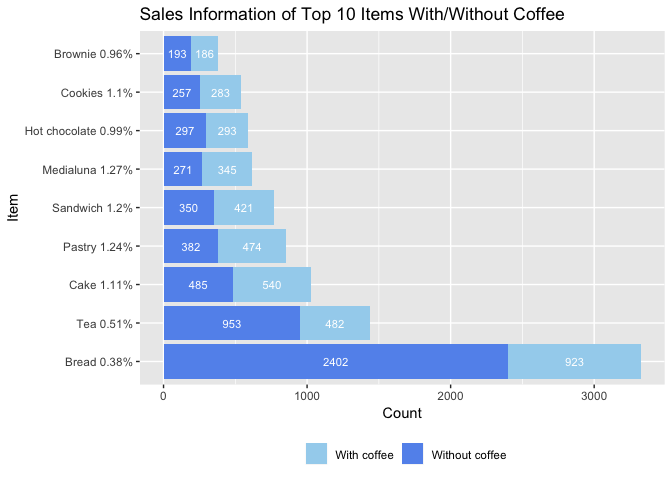
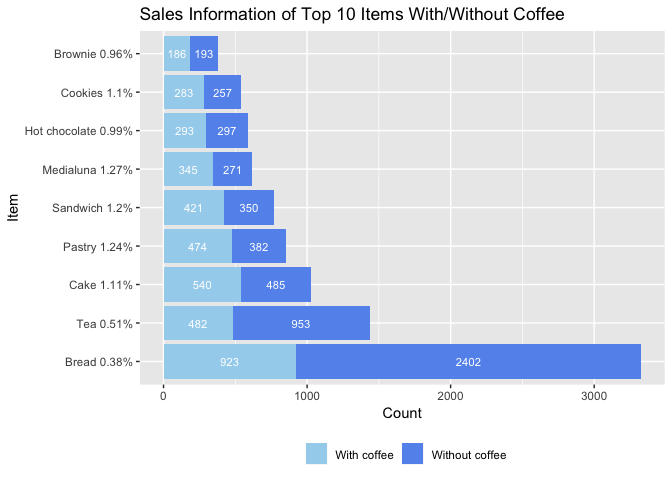
1

diff --git a/README.md b/README.md
@@ -1,19 +1,18 @@
+
+-   [Bakery Transaction Analysis](#bakery-transaction-analysis)
+    -   [Prerequisites](#prerequisites)
+    -   [Explore Data](#explore-data)
+    -   [Clean Data](#clean-data)
+    -   [Exploratory Data Analysis](#exploratory-data-analysis)
+    -   [Item Combination](#item-combination)
+    -   [Find the best item combinations with coffee](#find-the-best-item-combinations-with-coffee)
+    -   [Item Association Rules](#item-association-rules)
+    -   [Acknowledgments](#acknowledgments)
+
 Bakery Transaction Analysis
 ===========================
 
 This dataset contains the transaction records of a bakery shop. We tried to find the best combination of items that generally were bought together.
-
-
-Table of Contents
-------------
--   [Prerequisites](#prerequisites)
--   [Explore Data](#explore-data)
--   [Clean Data](#clean-data)
--   [Exploratory Data Analysis](#exploratory-data-analysis)
--   [Item Combination](#item-combination)
--   [Find the best item combinations with coffee](#find-the-best-item-combinations-with-coffee)
--   [Item Association Rules](#item-association-rules)
-
 
 ### Prerequisites
 
@@ -42,7 +41,7 @@ describe(data)
 head(data)
 
 # Correct date and time column types
-data = data %>%
+data = data %>% 
   mutate(
     Date = as.Date(Date),  
     Time = as.ITime(Time)  
@@ -52,7 +51,7 @@ str(data)
 # find how many unique items that we have
 data_item <- data %>%
   group_by(Item) %>%
-  summarise(Count = n())
+  summarise(Count = n()) 
 
 lengths(data_item)[2]
 ```
@@ -72,7 +71,7 @@ found<-c()
 # Found word types is 1 so only one of thing in my list founded in our data ("NONE")    
 found_words = word_list[found]
 
-# how many of them are "NONE"
+# how many of them are "NONE" 
 nrow(data[which(data$Item == "NONE"),])
 
 # Data include 786 missing values so let's drop them
@@ -96,13 +95,13 @@ We start with time variables.
 ### How many items were made across the year
 
 ``` r
-data_clean %>% group_by(Date, Item) %>% summarise(Count=n()) %>%
+data_clean %>% group_by(Date, Item) %>% summarise(Count=n()) %>% 
   mutate(Year = year(Date)) %>%
   ggplot(aes(x=Date, y=Count, colour=factor(Year))) +
   geom_line() +
   theme(legend.position = "bottom") +
   scale_color_manual(values=c("coral", "cornflowerblue")) +
-  labs(y="Transactions", title="Total Transactions by Date", colour="Year")
+  labs(y="Transactions", title="Total Transactions by Date", colour="Year") 
 ```
 
 ![](plots/year-1.png)
@@ -112,9 +111,9 @@ data_clean %>% group_by(Date, Item) %>% summarise(Count=n()) %>%
 ### Transcations by Month
 
 ``` r
-data_clean %>%
+data_clean %>% 
   mutate(Month = as.factor(month(Date))) %>%
-  group_by(Month, Transaction) %>%
+  group_by(Month, Transaction) %>% 
   summarise(Count=n()) %>%
   ggplot(aes(x=Month)) +
   geom_histogram(stat="count", fill="cornflowerblue", width=.6) +
@@ -126,16 +125,16 @@ data_clean %>%
 
 ``` r
 
-data_clean %>%
+data_clean %>% 
   mutate(Month = as.factor(month(Date))) %>%
-  group_by(Month, Transaction) %>%
+  group_by(Month, Transaction) %>% 
   summarise(Count=n()) %>%
   ggplot(aes(x=Month, y=Count, fill=Month)) +
   geom_boxplot() +
   labs(y="Transactions", title="Total Transactions by Month") +
   scale_fill_brewer(type="seq", palette = "Set3") +
   theme(legend.position = "none") +
-  scale_y_continuous(limits = c(0,15))
+  scale_y_continuous(limits = c(0,15)) 
 ```
 
 ![](plots/month-2.png)
@@ -159,7 +158,7 @@ data_clean %>% mutate(Weekday = weekdays(Date),
 ![](plots/weekday-1.png)
 
 ``` r
-
+  
 data_clean %>% mutate(Weekday = weekdays(Date),
                       Weekday = factor(Weekday, levels=c("Monday", "Tuesday", "Wednesday", "Thursday", "Friday", "Saturday", "Sunday"))) %>%
   group_by(Weekday, Transaction) %>%
@@ -178,7 +177,7 @@ data_clean %>% mutate(Weekday = weekdays(Date),
 ### How many transcations were made per hour.
 
 ``` r
-data_hr = data_clean %>% mutate(Hour = as.factor(hour(Time))) %>%
+data_hr = data_clean %>% mutate(Hour = as.factor(hour(Time))) %>% 
   group_by(Hour, Transaction) %>% summarise(Count = n())
 
 # set colour for plots
@@ -191,7 +190,7 @@ data_hr %>%
   geom_histogram(stat="count") +
   theme(legend.position="none") +
   labs(x = "Hour", y = "Transactions", title = "Transactions per hour (Unique Transaction ID)") +
-  scale_fill_manual(values = getPalette(colourCount))
+  scale_fill_manual(values = getPalette(colourCount)) 
 ```
 
 ![](plots/hour-1.png)
@@ -203,7 +202,7 @@ data_hr %>%
   geom_boxplot() +
   theme(legend.position="none") +
   labs(x = "Hour", y = "Transactions", title = "Transactions per hour (Unique Transaction ID)") +
-  scale_fill_manual(values = getPalette(colourCount))
+  scale_fill_manual(values = getPalette(colourCount)) 
 ```
 
 ![](plots/hour-2.png)
@@ -223,7 +222,7 @@ data_clean %>% group_by(Item) %>% summarise(Count=n()) %>%
   coord_flip() +
   theme(legend.position="none") +
   labs(x="Item", y="Counts", title="Top 20 popular items") +
-  scale_fill_manual(values = getPalette(colourCount))
+  scale_fill_manual(values = getPalette(colourCount)) 
 ```
 
 ![](plots/popular%20items-1.png)
@@ -246,7 +245,7 @@ ggplot(top10, aes(x=reorder(Item, Count), y=Count, fill=Item)) +
   coord_flip() +
   scale_fill_brewer(type="seq", palette = "Set3") +
   theme(legend.position="none") +
-  labs(x = "Item", y = "Transaction", title = "Top 10 Transactions")
+  labs(x = "Item", y = "Transaction", title = "Top 10 Transactions") 
 ```
 
 ![](plots/top10-1.png)
@@ -273,9 +272,9 @@ ggplot(top10, aes(x="", y=Count, fill=Item)) +
   coord_polar("y", start = 0) +
   scale_fill_brewer(palette = "Set3") +
   geom_text(aes(label = paste0(Percent, "%")),
-            position = position_stack(vjust = 0.5), size=4) +
+            position = position_stack(vjust = 0.5), size=4) + 
   labs(fill="Item", title = "Top 10 Transcations") +
-  theme(axis.text.x=element_blank(),
+  theme(axis.text.x=element_blank(), 
         plot.title = element_text(hjust=.5, size=15),
         legend.text = element_text(size=10))
 ```
@@ -296,15 +295,15 @@ Item Combination
 ### Find which transactions purchased more than two items
 
 ``` r
-data.more = data_clean %>%
+data.more = data_clean %>% 
   group_by(Transaction) %>%
   mutate(ItemsPurchased = n(),
-         Combined = ifelse(ItemsPurchased>1, TRUE, FALSE))
+         Combined = ifelse(ItemsPurchased>1, TRUE, FALSE)) 
 temp = data.more %>%
   filter(Combined=="TRUE") %>%
   group_by(Item, ItemsPurchased) %>%
   summarise(TransactionMoments = n()) %>%
-  filter(TransactionMoments>100 & ItemsPurchased>1)  #select only the most popular ones
+  filter(TransactionMoments>100 & ItemsPurchased>1)  #select only the most popular ones 
 
 colourCount = temp$Item %>% unique() %>% length()
 temp %>%    
@@ -314,7 +313,7 @@ temp %>%
   theme(axis.text.x = element_text(angle=90, hjust=1, vjust=.5),
         legend.position = "none") +
   labs(title="Popular Item Purchased Combination") +
-  scale_fill_manual(values = getPalette(colourCount))
+  scale_fill_manual(values = getPalette(colourCount)) 
 ```
 
 ![](plots/dependent%20items-1.png)
@@ -326,13 +325,13 @@ temp %>%
 ### Similary, we find which items were bought independently
 
 ``` r
-combined.items = data.more %>%
+combined.items = data.more %>% 
   group_by(Item, ItemsPurchased) %>%
   summarise(TransactionMoments = n()) %>%
   filter(TransactionMoments>100 & ItemsPurchased>1)
 temp = data.more %>% filter(Combined=="FALSE") %>%
   group_by(Item) %>% summarise(TransactionMoments = n())
-temp1 = temp[!(temp$Item %in% unique(combined.items$Item)),]
+temp1 = temp[!(temp$Item %in% unique(combined.items$Item)),] 
 colourCount = temp1$Item %>% unique() %>% length()
 temp1 %>%
   ggplot(aes(x=reorder(Item, -TransactionMoments), y=TransactionMoments, fill=Item)) +
@@ -364,11 +363,11 @@ head(buywithcoffee)
 
 ### only check whether top 10 items were bought along with coffee
 top10buy = buywithcoffee[buywithcoffee$Item %in% top10$Item == TRUE,] %>% data.frame()
-top10buy$Coffee = factor(top10buy$Coffee, levels = c("with", "without"))
+top10buy$Coffee = factor(top10buy$Coffee, levels = c("without", "with"))
 top10buy1 = dcast(top10buy, Item~Coffee, value.var = c("Count"))
 top10buy1$compare = round(top10buy1$with/top10buy1$without,2)
 
-top10buy2 = top10buy %>% group_by(Item) %>% #top10buy2 is for text use
+top10buy2 = top10buy %>% group_by(Item) %>% #top10buy2 is for text use 
  summarise(Sum=sum(Count)) %>% arrange(desc(Sum))
 top10buy2$compare = NULL
 for(i in 1:nrow(top10buy2)){
@@ -379,14 +378,15 @@ for(i in 1:nrow(top10buy2)){
 
 ggplot(top10buy, aes(x=reorder(Item, -Count), y=Count, fill=Coffee)) +
   geom_bar(stat = "identity", position = "stack") +
-  scale_fill_manual(labels=c("With coffee", "Without coffee"),
-                    values=c("with"="lightskyblue2", "without"="cornflowerblue")) +
+  scale_fill_manual(labels=c("with" = "With coffee", "without" = "Without coffee"),
+                    values=c("with"="lightskyblue2", "without" = "cornflowerblue")) +
   coord_flip() +
   labs(x="Item", y="Count", fill="", title="Sales Information of Top 10 Items With/Without Coffee") +
   theme(legend.position = "bottom") +
   geom_text(aes(label = paste0(Count)),
             position = position_stack(vjust = 0.5), size=3, colour="white") +
-  scale_x_discrete(labels = paste0(top10buy2$Item," ", top10buy2$compare, "%"))
+  scale_x_discrete(labels = paste0(top10buy2$Item," ", top10buy2$compare, "%")) +
+  guides(fill = guide_legend(reverse = TRUE))
 ```
 
 ![](plots/combination%20with%20coffee-1.png)
@@ -424,19 +424,19 @@ association.rules = apriori(transaction.data,
                             )
 )
 #> Apriori
-#>
+#> 
 #> Parameter specification:
 #>  confidence minval smax arem  aval originalSupport maxtime support minlen
 #>         0.6    0.1    1 none FALSE            TRUE       5   0.005      1
 #>  maxlen target   ext
 #>      10  rules FALSE
-#>
+#> 
 #> Algorithmic control:
 #>  filter tree heap memopt load sort verbose
 #>     0.1 TRUE TRUE  FALSE TRUE    2    TRUE
-#>
-#> Absolute minimum support count: 32
-#>
+#> 
+#> Absolute minimum support count: 32 
+#> 
 #> set item appearances ...[1 item(s)] done [0.00s].
 #> set transactions ...[103 item(s), 6577 transaction(s)] done [0.00s].
 #> sorting and recoding items ... [37 item(s)] done [0.00s].
@@ -448,14 +448,14 @@ association.rules = apriori(transaction.data,
 association.rules = sort(association.rules, by = 'support', decreasing = TRUE)
 summary(association.rules)
 #> set of 5 rules
-#>
+#> 
 #> rule length distribution (lhs + rhs):sizes
-#> 2 3
-#> 3 2
-#>
-#>    Min. 1st Qu.  Median    Mean 3rd Qu.    Max.
-#>     2.0     2.0     2.0     2.4     3.0     3.0
-#>
+#> 2 3 
+#> 3 2 
+#> 
+#>    Min. 1st Qu.  Median    Mean 3rd Qu.    Max. 
+#>     2.0     2.0     2.0     2.4     3.0     3.0 
+#> 
 #> summary of quality measures:
 #>     support           confidence          lift           count    
 #>  Min.   :0.005626   Min.   :0.6118   Min.   :1.262   Min.   : 37  
@@ -464,7 +464,7 @@ summary(association.rules)
 #>  Mean   :0.012012   Mean   :0.6723   Mean   :1.387   Mean   : 79  
 #>  3rd Qu.:0.014140   3rd Qu.:0.7296   3rd Qu.:1.505   3rd Qu.: 93  
 #>  Max.   :0.025848   Max.   :0.7551   Max.   :1.558   Max.   :170  
-#>
+#> 
 #> mining info:
 #>              data ntransactions support confidence
 #>  transaction.data          6577   0.005        0.6
@@ -501,11 +501,10 @@ plot(association.rules, method="graph")
 
 > The red colour is based on lift, the redder the greater the lift value (more significant)
 
-
 Acknowledgments
-------------
+---------------
 
-Special thanks to two Kaggle kernals, which helps me a lot on this project:
+Special thanks to two Kaggle kernal, which helps me a lot on this project:
 
 [Bakery Transactions - EDA and Association Rules](https://www.kaggle.com/danilodiogo/bakery-transactions-eda-and-association-rules/notebook?fbclid=IwAR30SBSyF9PXnQlihL-YiyhkIW_8TI4SpVbGi54Eg8YvzRwqhOLci1pxuDc)
 
